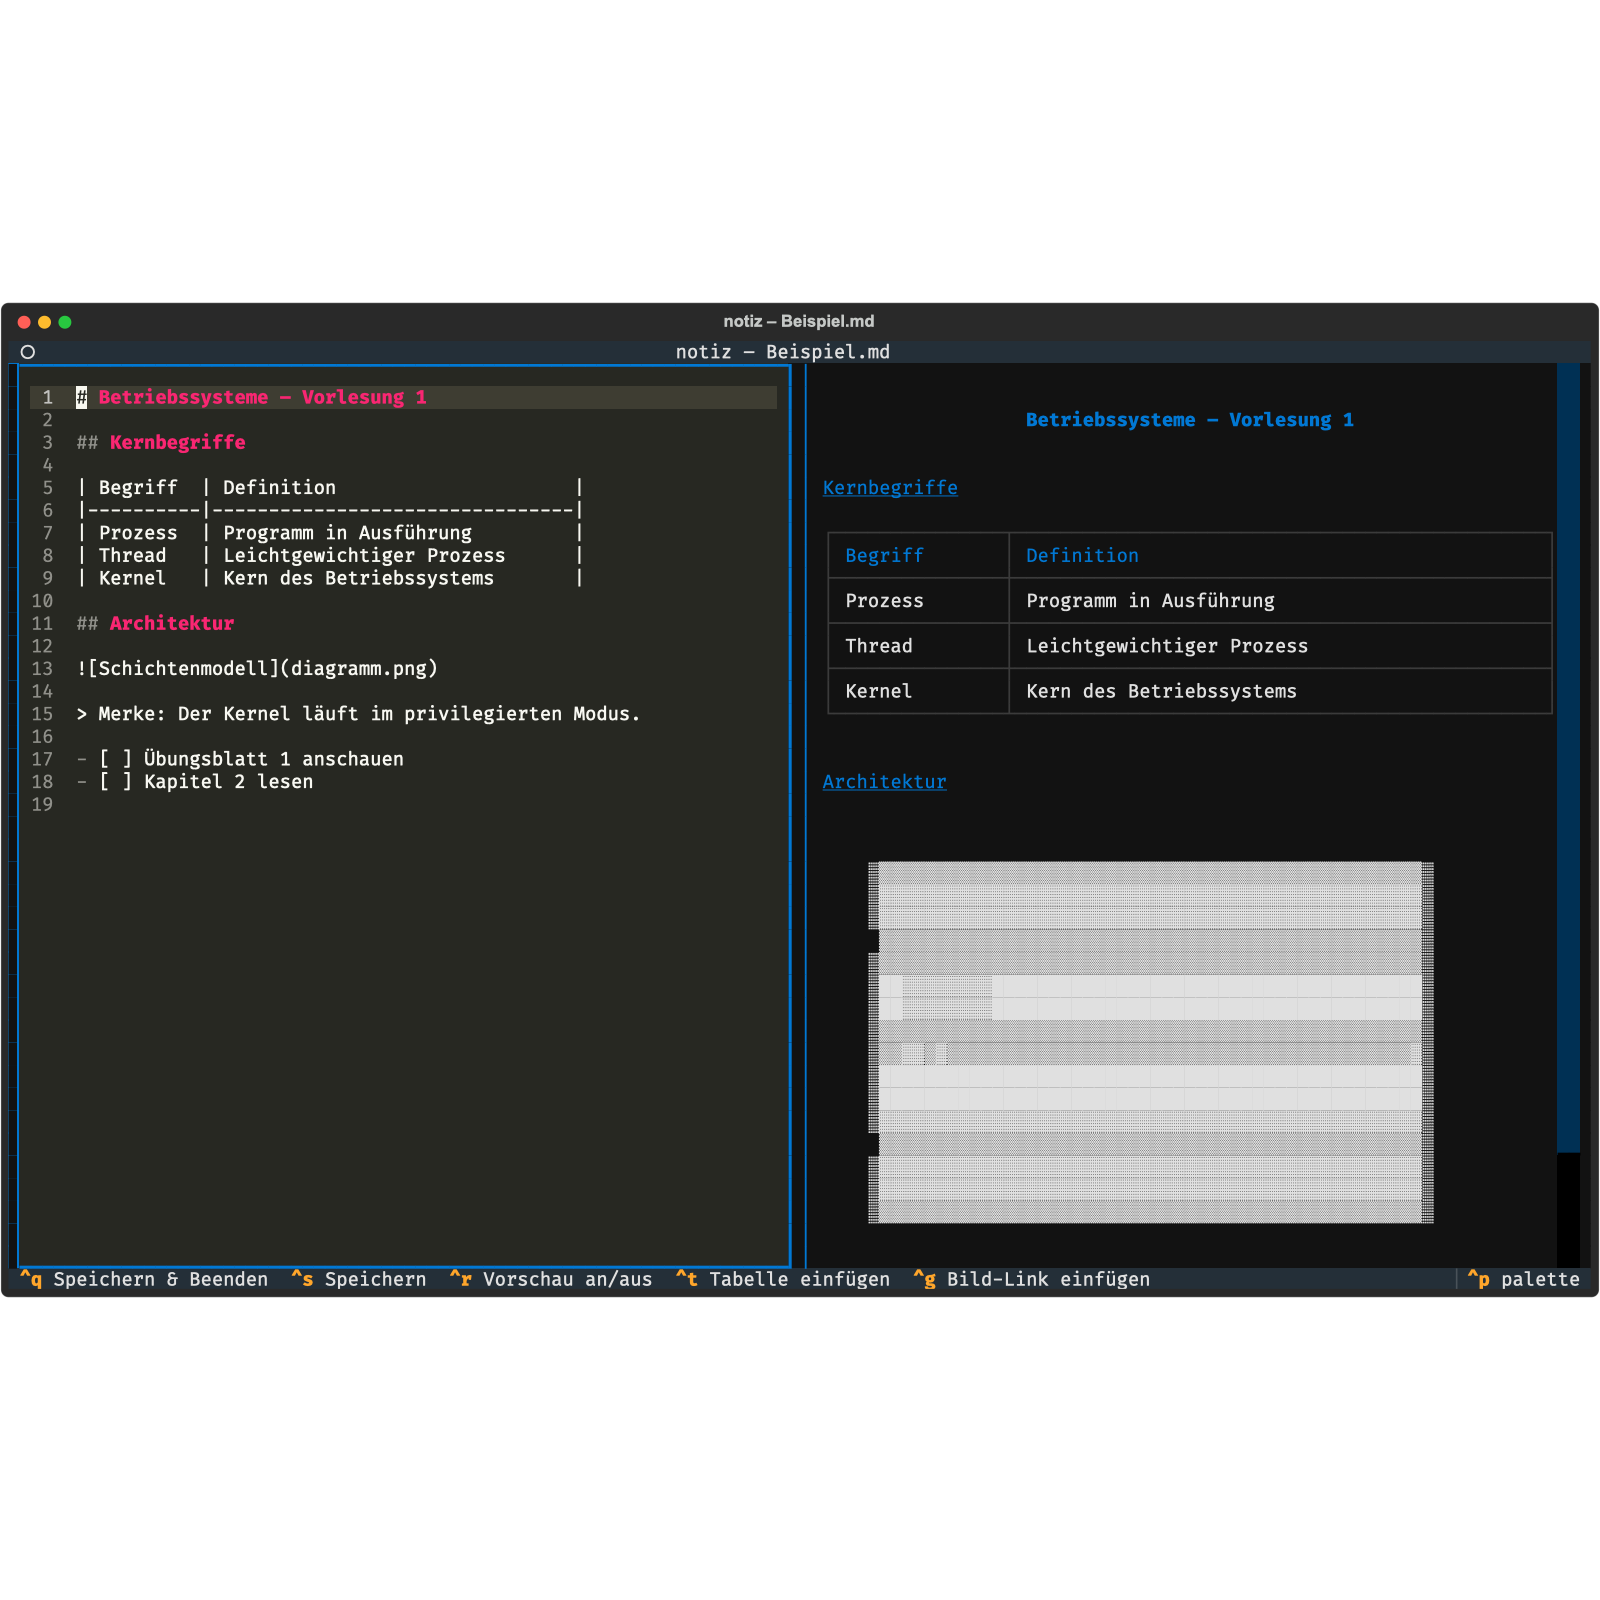
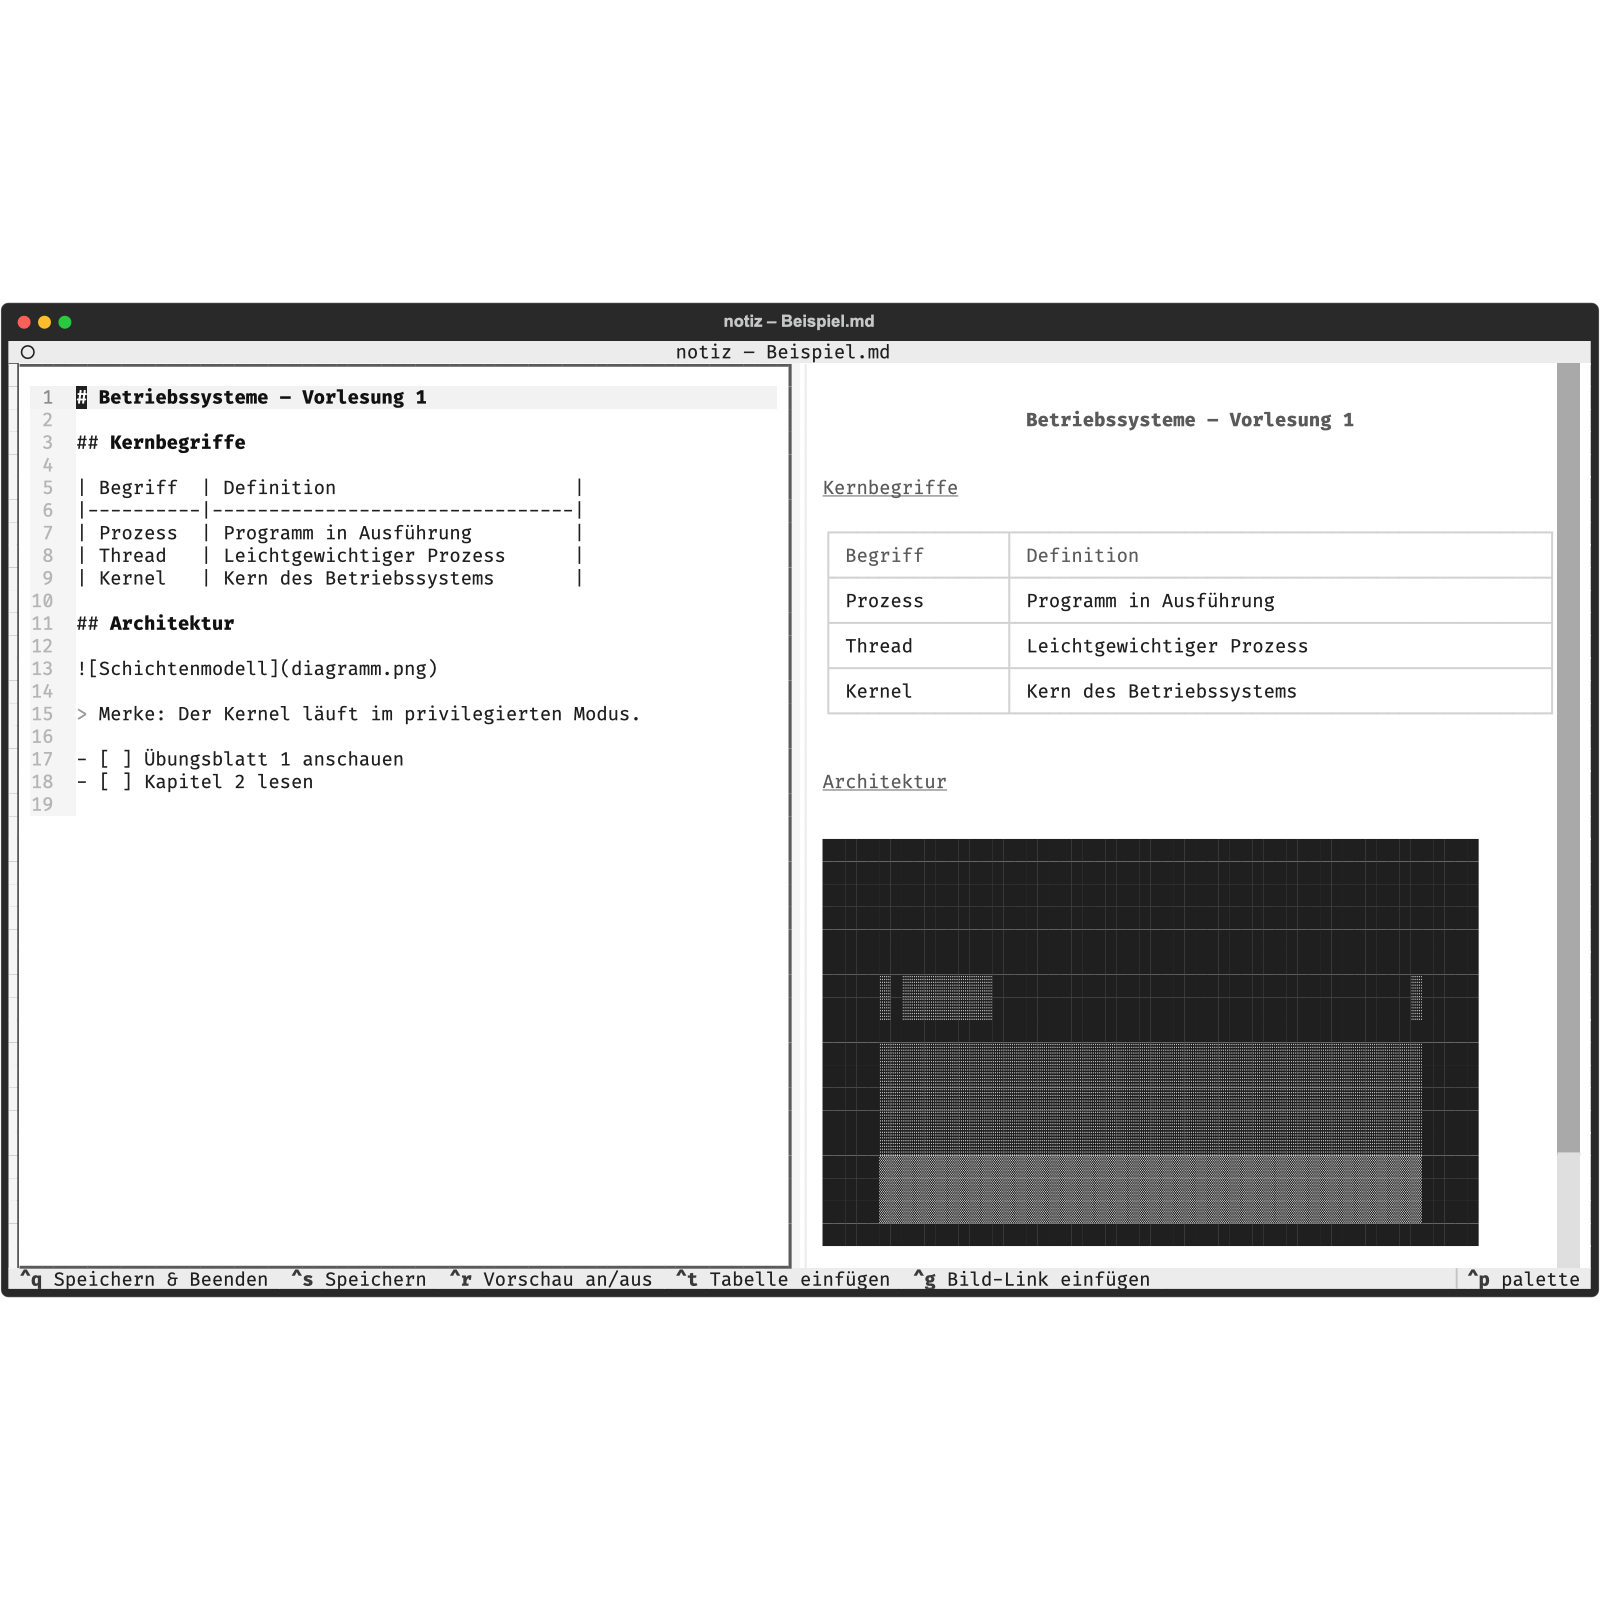
Helles minimales Grau-Theme für App und Editor, Bildpfade mit Leerzeichen unterstützt

diff --git a/app.py b/app.py
@@ -14,10 +14,13 @@ import re
 import sys
 from pathlib import Path
 
+from rich.style import Style
 from textual.app import App, ComposeResult
 from textual.binding import Binding
 from textual.containers import Horizontal, VerticalScroll
+from textual.theme import Theme
 from textual.widgets import Footer, Header, Markdown, TextArea
+from textual.widgets.text_area import TextAreaTheme
 
 try:
     from textual_image.widget import Image
@@ -25,7 +28,46 @@ except Exception:
     Image = None
 
 # Eine Zeile, die nur aus einem Bild-Link besteht: ![Alt](pfad)
-IMAGE_LINE = re.compile(r"^\s*!\[[^\]]*\]\(([^)\s]+)\)\s*$")
+# Leerzeichen im Pfad sind erlaubt, optional in <spitzen Klammern>.
+IMAGE_LINE = re.compile(r"^\s*!\[[^\]]*\]\(<?([^)>]+)>?\)\s*$")
+
+LIGHT_THEME = Theme(
+    name="notiz-light",
+    primary="#5a5a5a",
+    secondary="#7a7a7a",
+    accent="#3a3a3a",
+    foreground="#1f1f1f",
+    background="#f5f5f5",
+    surface="#ffffff",
+    panel="#ececec",
+    success="#4a4a4a",
+    warning="#6a6a6a",
+    error="#8b3a3a",
+    dark=False,
+)
+
+EDITOR_THEME = TextAreaTheme(
+    name="notiz-light",
+    base_style=Style(color="#1f1f1f", bgcolor="#ffffff"),
+    gutter_style=Style(color="#b5b5b5", bgcolor="#f5f5f5"),
+    cursor_style=Style(color="#ffffff", bgcolor="#1f1f1f"),
+    cursor_line_style=Style(bgcolor="#f2f2f2"),
+    cursor_line_gutter_style=Style(color="#8a8a8a", bgcolor="#f2f2f2"),
+    selection_style=Style(bgcolor="#dcdcdc"),
+    bracket_matching_style=Style(bgcolor="#e4e4e4", bold=True),
+    syntax_styles={
+        "heading": Style(color="#111111", bold=True),
+        "bold": Style(color="#1f1f1f", bold=True),
+        "italic": Style(color="#1f1f1f", italic=True),
+        "link": Style(color="#4a4a4a", underline=True),
+        "inline_code": Style(color="#333333", bgcolor="#efefef"),
+        "punctuation.special": Style(color="#9a9a9a"),
+        "punctuation.delimiter": Style(color="#9a9a9a"),
+        "punctuation.bracket": Style(color="#9a9a9a"),
+        "string": Style(color="#4a4a4a"),
+        "comment": Style(color="#9a9a9a", italic=True),
+    },
+)
 
 TABLE_SNIPPET = (
     "\n| Spalte 1 | Spalte 2 |\n"
@@ -43,7 +85,8 @@ class NotizApp(App):
     }
     #preview {
         width: 1fr;
-        border-left: solid $primary;
+        background: $surface;
+        border-left: solid $panel;
         padding: 0 1;
     }
     #preview.hidden {
@@ -91,6 +134,11 @@ class NotizApp(App):
         yield Footer()
 
     def on_mount(self) -> None:
+        self.register_theme(LIGHT_THEME)
+        self.theme = "notiz-light"
+        editor = self.query_one("#editor", TextArea)
+        editor.register_theme(EDITOR_THEME)
+        editor.theme = "notiz-light"
         self._update_title()
         self.run_worker(self._render_preview(), exclusive=True, group="preview")
 
@@ -123,7 +171,8 @@ class NotizApp(App):
         for line in text.splitlines():
             match = IMAGE_LINE.match(line)
             if match and Image is not None and "://" not in match.group(1):
-                img_path = (base / match.group(1)).expanduser()
+                raw = match.group(1).strip().replace("\\ ", " ")
+                img_path = (base / raw).expanduser()
                 if img_path.is_file():
                     flush()
                     image = Image(str(img_path))
